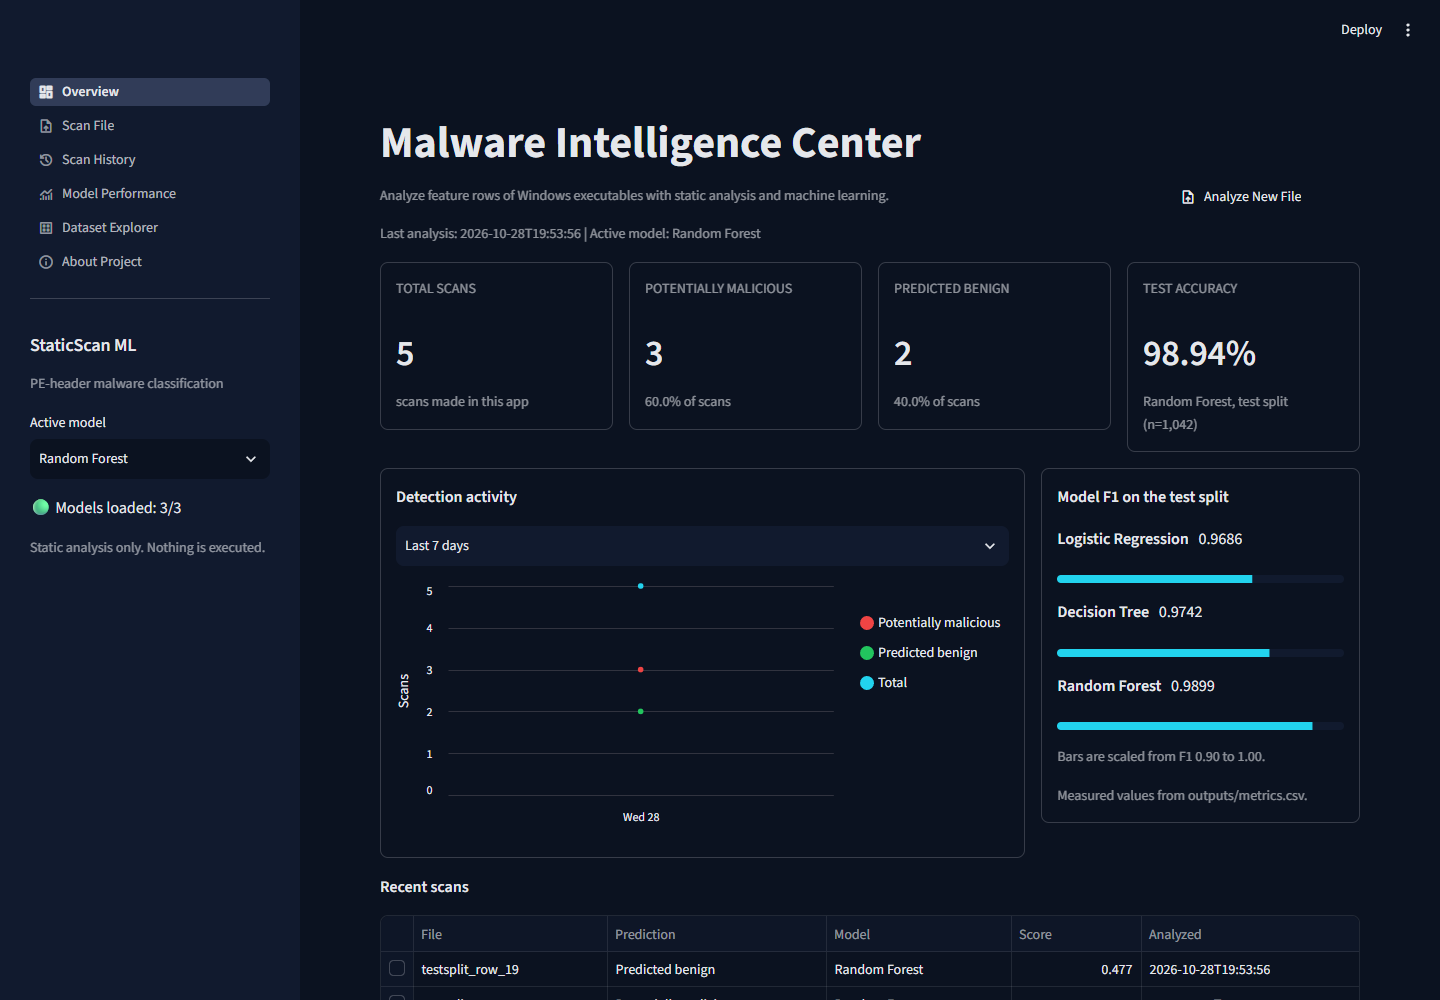
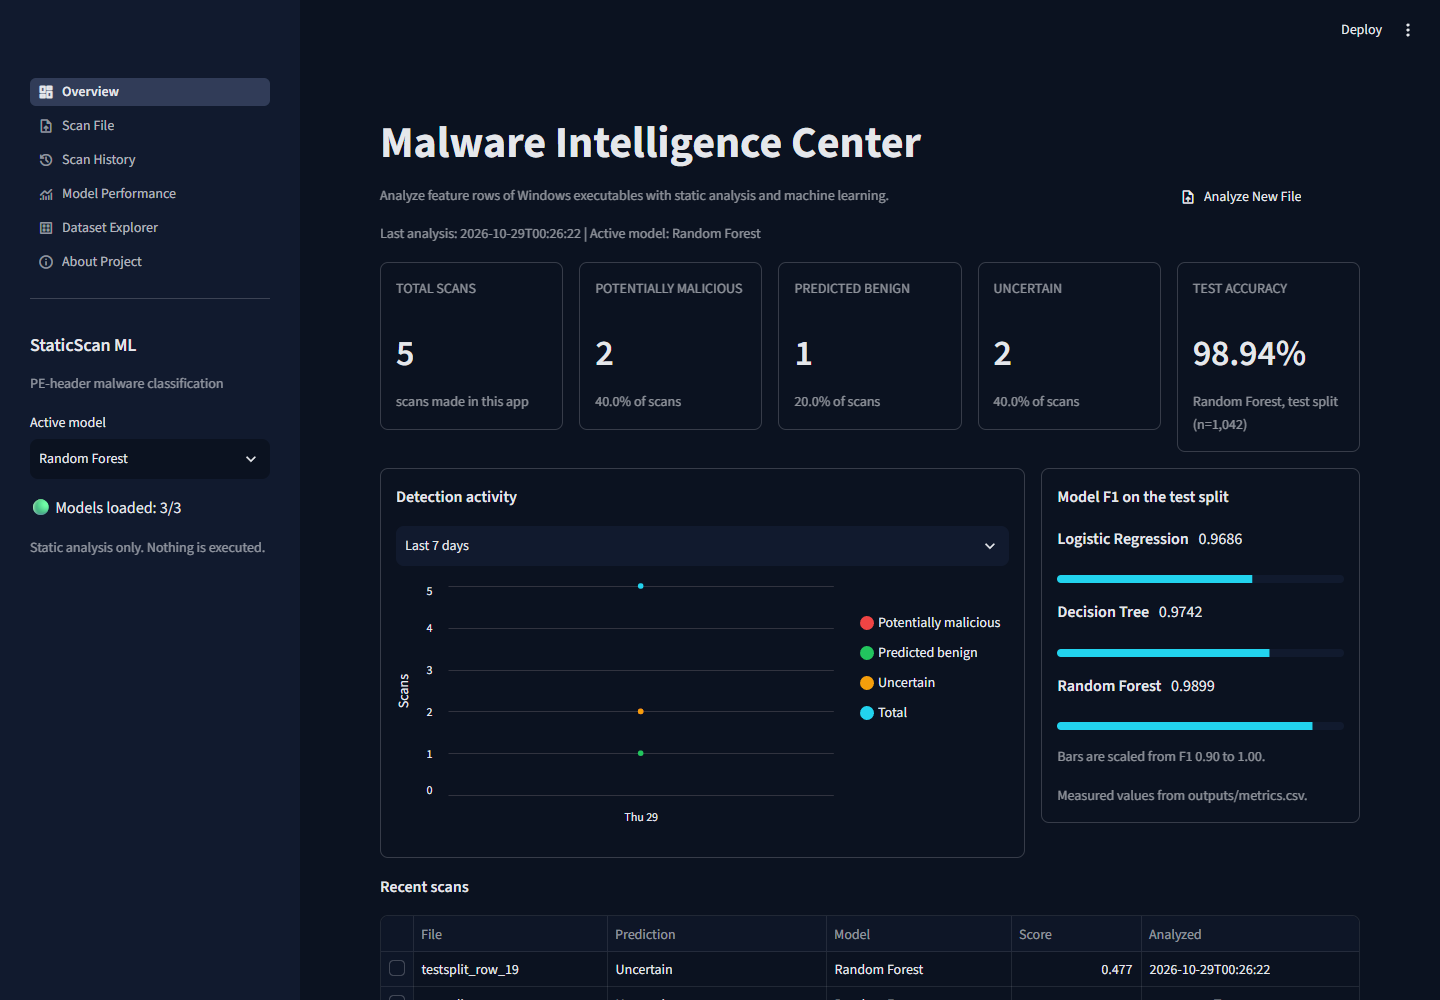
Add Uncertain verdict (borderline score or model disagreement), triage evaluation, docs

diff --git a/src/dash_common.py b/src/dash_common.py
@@ -21,13 +21,30 @@ DB = Path(os.environ.get("STATICSCAN_DB", ROOT / "data" / "scans.db"))  # overri
 CAT = "packer_type"
 MODELS = {"Logistic Regression": "logistic_regression", "Decision Tree": "decision_tree",
           "Random Forest": "random_forest"}
-LABEL_MAL, LABEL_BEN = "Potentially malicious", "Predicted benign"
-COLORS = {LABEL_MAL: "#ef4444", LABEL_BEN: "#22c55e", "Total": "#22d3ee"}
+LABEL_MAL, LABEL_BEN, LABEL_UNC = "Potentially malicious", "Predicted benign", "Uncertain"
+COLORS = {LABEL_MAL: "#ef4444", LABEL_BEN: "#22c55e", LABEL_UNC: "#f59e0b", "Total": "#22d3ee"}
+BORDER = (0.4, 0.6)  # a score this close to the 0.5 line is too close to call (fixed in advance, not tuned)
 DEMO_ROWS = [0, 3, 1, 29, 19]  # real test-split rows: clear malware, clear benign, packed, one FP, one FN
 
 
 def label_for(score):
     return LABEL_MAL if score >= 0.5 else LABEL_BEN
+
+
+def verdict(scores, primary):
+    """(label, reason) for one scan. scores: {model name: score}; primary: the model the user selected.
+    Uncertain when the selected model's score is within BORDER of 0.5, or when the three models do not agree on
+    which side of 0.5 the file is. The models and their scores are unchanged; this only decides what to show."""
+    s, why = scores[primary], []
+    if BORDER[0] <= s <= BORDER[1]:
+        why.append(f"{primary} score {s:.2f} is close to the 0.5 line")
+    mal = [m for m, v in scores.items() if v >= 0.5]
+    ben = [m for m, v in scores.items() if v < 0.5]
+    if mal and ben:
+        why.append(f"models disagree (malicious: {', '.join(mal)}; benign: {', '.join(ben)})")
+    if why:
+        return LABEL_UNC, "; ".join(why)
+    return label_for(s), ""
 
 
 @st.cache_resource
@@ -97,9 +114,18 @@ def _con():
     return con
 
 
+def _apply_verdict(df):
+    """Recompute label and reason from the stored scores, so every scan (older ones too) follows the current rule."""
+    out = [verdict(json.loads(r.scores_json), r.model) for r in df.itertuples()]
+    df = df.copy()
+    df["label"] = [o[0] for o in out]
+    df["reason"] = [o[1] for o in out]
+    return df
+
+
 def list_scans():
     with closing(_con()) as con:
-        return pd.read_sql("SELECT * FROM scans ORDER BY id DESC", con)
+        return _apply_verdict(pd.read_sql("SELECT * FROM scans ORDER BY id DESC", con))
 
 
 def clear_scans():
@@ -117,10 +143,11 @@ def record_scans(X, names, source, model, sha_list=None, extra_list=None):
             sha = sha_list[i] if sha_list else hashlib.sha256(json.dumps(feats, sort_keys=True).encode()).hexdigest()
             extra = json.dumps(extra_list[i]) if extra_list else None
             s = float(scores[model][i])
+            label, _ = verdict({n: float(v[i]) for n, v in scores.items()}, model)
             cur = con.execute(
                 "INSERT INTO scans(name,sha256,source,model,score,label,scores_json,features_json,created_at,extra_json)"
                 " VALUES(?,?,?,?,?,?,?,?,?,?)",
-                (name, sha, source, model, s, label_for(s),
+                (name, sha, source, model, s, label,
                  json.dumps({n: float(v[i]) for n, v in scores.items()}), json.dumps(feats),
                  datetime.now().isoformat(timespec="seconds"), extra))
             ids.append(cur.lastrowid)
@@ -147,7 +174,7 @@ def validate_features(raw, max_rows=50):
 def get_scan(scan_id):
     with closing(_con()) as con:
         r = pd.read_sql("SELECT * FROM scans WHERE id = ?", con, params=(int(scan_id),))
-    return r.iloc[0] if len(r) else None
+    return _apply_verdict(r).iloc[0] if len(r) else None
 
 
 def ood_notes(f, info):
@@ -191,7 +218,8 @@ def report_markdown(rec, ft):
     lines = [f"# Analysis report: {rec['name']}", "",
              f"- Feature-vector SHA-256: `{rec['sha256']}`", f"- Source: {rec['source']}",
              f"- Scanned: {rec['created_at']}", f"- Model: {rec['model']}",
-             f"- **Prediction: {rec['label']}** (model score {rec['score']:.3f})", "",
+             f"- **Prediction: {rec['label']}** (model score {rec['score']:.3f})",
+             *([f"- Why uncertain: {rec['reason']}"] if rec.get("reason") else []), "",
              "Machine-learning predictions are uncertain. This result does not confirm malicious behaviour.", "",
              "## All models", "", "| Model | Score | Prediction |", "|---|---|---|"]
     lines += [f"| {n} | {v:.3f} | {label_for(v)} |" for n, v in s.items()]
@@ -205,7 +233,6 @@ def report_markdown(rec, ft):
 def render_report(rec):
     s = json.loads(rec["scores_json"])
     feats_dict = json.loads(rec["features_json"])
-    mal = rec["label"] == LABEL_MAL
     extra = json.loads(rec["extra_json"]) if isinstance(rec.get("extra_json"), str) else None
     real = bool(extra)
     with st.container(border=True):
@@ -213,7 +240,10 @@ def render_report(rec):
         st.subheader(rec["name"])
         st.caption(f"{'File' if real else 'Feature-vector'} SHA-256: `{rec['sha256']}`  \nSource: {rec['source']}  |  "
                    f"Scanned: {rec['created_at']}")
-        st.markdown(f"#### {'🔴' if mal else '🟢'} :{'red' if mal else 'green'}[{rec['label'].upper()}]")
+        icon, colour = {LABEL_MAL: ("🔴", "red"), LABEL_BEN: ("🟢", "green")}.get(rec["label"], ("🟠", "orange"))
+        st.markdown(f"#### {icon} :{colour}[{rec['label'].upper()}]")
+        if rec.get("reason"):
+            st.caption(f"Why: {rec['reason']}. Treat this as unknown rather than a verdict.")
         st.markdown(f"**Model:** {rec['model']} &nbsp;|&nbsp; **Model score:** {rec['score']:.3f}")
         st.progress(float(rec["score"]))
         st.warning("Machine-learning predictions are uncertain. This result does not confirm malicious behaviour. "

diff --git a/tests/test_dashboard.py b/tests/test_dashboard.py
@@ -57,4 +57,40 @@ if os.path.exists(sample):
 assert not pe_extract.extract_safely(b"hello world")["ok"]
 assert not pe_extract.extract_safely(b"MZ" + bytes(200))["ok"]  # MZ but no valid PE headers
 assert not pe_extract.extract_safely(b"MZ" + bytes(pe_extract.MAX_BYTES))["ok"]  # over the size limit
+# "Uncertain" verdict: borderline score or disagreement between the models (rule fixed in advance, not tuned)
+RF, DT, LR = "Random Forest", "Decision Tree", "Logistic Regression"
+V = dc.verdict
+assert V({RF: .97, DT: 1, LR: 1}, RF)[0] == dc.LABEL_MAL and V({RF: .02, DT: 0, LR: 0}, RF)[0] == dc.LABEL_BEN
+lab, why = V({RF: .51, DT: 0, LR: .33}, RF)  # the Uninstall Notion.exe case: borderline AND disagreement
+assert lab == dc.LABEL_UNC and "close to the 0.5 line" in why and "models disagree" in why
+assert V({RF: .45, DT: .1, LR: .2}, RF)[0] == dc.LABEL_UNC  # all say benign, but too close to the line
+assert V({RF: .9, DT: 0, LR: .9}, RF)[0] == dc.LABEL_UNC   # confident score, but a model disagrees
+assert V({RF: .4, DT: 0, LR: 0}, RF)[0] == dc.LABEL_UNC and V({RF: .6, DT: 1, LR: 1}, RF)[0] == dc.LABEL_UNC  # edges inclusive
+assert V({RF: .39, DT: 0, LR: 0}, RF)[0] == dc.LABEL_BEN and V({RF: .61, DT: 1, LR: 1}, RF)[0] == dc.LABEL_MAL
+assert V({RF: .99, DT: 1, LR: .98}, DT)[0] == dc.LABEL_MAL  # the selected model decides which score is checked
+assert V({RF: .6, DT: 1, LR: 1}, DT)[0] == dc.LABEL_MAL     # RF near the line does not matter when DT is selected and all agree
+
+# demo rows with Random Forest selected: 0 and 1 malicious, 3 benign, 29 and 19 uncertain (models disagree)
+from collections import Counter
+demo = dc.list_scans().query("source == 'Test split (demo)'")
+assert Counter(demo["label"]) == {dc.LABEL_MAL: 2, dc.LABEL_BEN: 1, dc.LABEL_UNC: 2}, Counter(demo["label"])
+rows = dc.list_scans().set_index("name")
+assert rows.loc["testsplit_row_29", "label"] == dc.LABEL_UNC and "models disagree" in rows.loc["testsplit_row_29", "reason"]
+assert rows.loc["testsplit_row_19", "label"] == dc.LABEL_UNC and rows.loc["testsplit_row_3", "reason"] == ""
+
+# a scan stored before this rule existed (binary label) is shown with the current rule, without rewriting the database
+import json
+with dc._con() as con:
+    con.execute("INSERT INTO scans(name,sha256,source,model,score,label,scores_json,features_json,created_at) VALUES(?,?,?,?,?,?,?,?,?)",
+                ("legacy.exe", "x" * 64, "old", RF, .51, dc.LABEL_MAL, json.dumps({RF: .51, DT: 0, LR: .33}), "{}", "2020-01-01T00:00:00"))
+assert dc.list_scans().set_index("name").loc["legacy.exe", "label"] == dc.LABEL_UNC
+import sqlite3
+assert sqlite3.connect(dc.DB).execute("SELECT label FROM scans WHERE name='legacy.exe'").fetchone()[0] == dc.LABEL_MAL  # stored text untouched
+
+# the pages render with the new label (Overview cards, History filter)
+at.switch_page("views/overview.py").run()
+assert not at.exception, at.exception
+assert any(dc.LABEL_UNC.upper() in c.value.upper() for c in at.caption), [c.value for c in at.caption][:8]
+at.switch_page("views/history.py").run()
+assert not at.exception, at.exception
 print("dashboard smoke test passed")

diff --git a/src/evaluate_triage.py b/src/evaluate_triage.py
@@ -1,0 +1,48 @@
+"""What does the dashboard's "Uncertain" label do on the test split? (descriptive, nothing is tuned)
+
+The rule (dash_common.verdict) is fixed in advance: a scan is Uncertain when the selected model's score is within
+0.40-0.60, or when the three models disagree about which side of 0.5 the file is. It changes no score and no model,
+and the official test metrics in outputs/metrics.csv are untouched. This script only reports, per selected model,
+how many test files the rule sets aside and how many of that model's mistakes it catches.
+Run from the project root:  python src/evaluate_triage.py     (writes outputs/triage_check.md)"""
+import sys
+from pathlib import Path
+
+sys.path.insert(0, str(Path(__file__).resolve().parent))
+import dash_common as dc  # noqa: E402
+
+
+def main():
+    y, scores = dc.test_scores()  # saved models on the held-out test split (same predictions as outputs/metrics.csv)
+    names = list(scores)
+    rows = []
+    for primary in names:
+        err = unc_err = unc_ok = dec_err = dec = 0
+        for i in range(len(y)):
+            label, _ = dc.verdict({n: float(scores[n][i]) for n in names}, primary)
+            wrong = (scores[primary][i] >= 0.5) != bool(y[i])
+            if label == dc.LABEL_UNC:
+                unc_err += wrong
+                unc_ok += not wrong
+            else:
+                dec += 1
+                dec_err += wrong
+            err += wrong
+        unc = unc_err + unc_ok
+        rows.append((primary, len(y), err, unc, unc_err, dec, dec_err))
+    md = ["# Effect of the Uncertain label on the test split (1,042 files)", "",
+          "Descriptive only: the rule was fixed before measuring (score within 0.40-0.60, or the three models disagree) and "
+          "no model, score or official metric changes. 'Errors' are the selected model's mistakes at the usual 0.5 "
+          "threshold (false alarms plus misses).", "",
+          "| Selected model | Errors | Files marked Uncertain | Errors among those | Errors caught | Decided files | Errors among decided | Error rate when decided |",
+          "|---|---|---|---|---|---|---|---|"]
+    for p, n, err, unc, ue, dec, de in rows:
+        md.append(f"| {p} | {err} | {unc} ({unc / n:.1%}) | {ue} | {ue / max(err, 1):.0%} | {dec} | {de} | "
+                  f"{de / max(dec, 1):.2%} (was {err / n:.2%}) |")
+    text = "\n".join(md)
+    (Path(__file__).resolve().parent.parent / "outputs" / "triage_check.md").write_text(text, encoding="utf-8")
+    print(text)
+
+
+if __name__ == "__main__":
+    main()

diff --git a/src/views/overview.py b/src/views/overview.py
@@ -4,7 +4,7 @@ import altair as alt
 import pandas as pd
 import streamlit as st
 
-from dash_common import COLORS, DEMO_ROWS, MODELS, LABEL_BEN, LABEL_MAL, list_scans, metrics_table, record_scans, test_rows
+from dash_common import COLORS, DEMO_ROWS, MODELS, LABEL_BEN, LABEL_MAL, LABEL_UNC, list_scans, metrics_table, record_scans, test_rows
 
 model = st.session_state.get("active_model", "Random Forest")
 scans = list_scans()
@@ -18,12 +18,14 @@ st.caption(f"Last analysis: {last}  |  Active model: {model}")
 
 mal = int((scans["label"] == LABEL_MAL).sum())
 ben = int((scans["label"] == LABEL_BEN).sum())
+unc = int((scans["label"] == LABEL_UNC).sum())
 acc = metrics_table().loc[model.lower().replace(" ", "_"), "accuracy"]
-cols = st.columns(4)
+cols = st.columns(5)
 for col, (title, val, sub) in zip(cols, [
         ("Total scans", len(scans), "scans made in this app"),
         (LABEL_MAL, mal, f"{mal / len(scans):.1%} of scans" if len(scans) else "predictions, not confirmed malware"),
         (LABEL_BEN, ben, f"{ben / len(scans):.1%} of scans" if len(scans) else "no scans yet"),
+        (LABEL_UNC, unc, "models disagree or score near 0.5" if not len(scans) else f"{unc / len(scans):.1%} of scans"),
         ("Test accuracy", f"{acc:.2%}", f"{model}, test split (n=1,042)")]):
     with col.container(border=True):
         st.caption(title.upper())

diff --git a/src/views/history.py b/src/views/history.py
@@ -3,7 +3,7 @@ import json
 import pandas as pd
 import streamlit as st
 
-from dash_common import LABEL_BEN, LABEL_MAL, MODELS, clear_scans, get_scan, list_scans, render_report, top_features
+from dash_common import LABEL_BEN, LABEL_MAL, LABEL_UNC, MODELS, clear_scans, get_scan, list_scans, render_report, top_features
 
 PAGE = 25
 st.title("Scan History")
@@ -14,7 +14,7 @@ if scans.empty:
 
 c1, c2, c3, c4 = st.columns([2, 1, 1, 1])
 q = c1.text_input("Search file name or SHA-256", placeholder="e.g. testsplit_row_0 or 9f86d0...")
-pred = c2.selectbox("Prediction", ["All", LABEL_MAL, LABEL_BEN])
+pred = c2.selectbox("Prediction", ["All", LABEL_MAL, LABEL_BEN, LABEL_UNC])
 mod = c3.selectbox("Model", ["All", *MODELS])
 order = c4.selectbox("Sort", ["Newest first", "Oldest first"])
 

diff --git a/tests/take_screenshots.py b/tests/take_screenshots.py
@@ -61,6 +61,15 @@ try:
         shot(pg, "03_scan_real_file_report")
         pg.close()
 
+        pg = open_page("scan_file", "Scan File", 1500)  # a scan the dashboard calls Uncertain (models disagree)
+        pg.get_by_text("By index").click()
+        pg.get_by_label("Test row index").fill("29")
+        pg.get_by_label("Test row index").press("Enter")
+        pg.get_by_role("button", name="Analyze with").click()
+        pg.wait_for_selector("text=Treat this as unknown", timeout=60000)
+        shot(pg, "03b_uncertain_report")
+        pg.close()
+
         pg = open_page("history", "Scan History", 1000)
         shot(pg, "04_scan_history")
         pg.close()

diff --git a/src/views/about.py b/src/views/about.py
@@ -38,4 +38,7 @@ already installed on this PC, and **not** on real malware, so its detection abil
 - One split, no significance test. Packed, obfuscated or adversarial files were not tested.
 - Scores are raw model scores, not calibrated probabilities. "Potentially malicious" means predicted malicious,
   not confirmed malware.
+- **Uncertain** means the selected model's score is within 0.40-0.60 or the three models disagree. It is a triage label
+  on top of unchanged models: on the test split it sets aside 5.6% of files and catches 8 of the Random Forest's 11
+  mistakes, but most files it sets aside are classified correctly.
 """)

diff --git a/report/REPORT.md b/report/REPORT.md
@@ -208,6 +208,21 @@ To check whether the Random Forest could be improved, `src/improve_cv.py` tuned 
 
 None of the alternatives is clearly better. The ensemble differs from the current Random Forest by +0.0002 in F1 and -0.0022 in FPR, both well inside one standard deviation (0.0017 to 0.0042) of the fold-to-fold variation. The wider Random Forest grid scored higher in its own tuning folds (0.9922) than on the fresh folds (0.9913), which is the usual optimism of tuning on the same folds. Conclusion: on these 58 header features the models are already at the ceiling of what this dataset supports, so the Random Forest was kept and nothing was re-evaluated on the test split. Further gains would more likely come from better data (for example modern samples and import features) than from more model tuning.
 
+### 6.10 "Uncertain" verdict in the dashboard (triage layer, supplementary)
+Manual testing of the dashboard on a benign program turned up a false alarm. `Uninstall Notion.exe` (a 158 KB NSIS uninstaller, 5 sections including NSIS's `.ndata`, 7 imported DLLs, built in 2018) scores 0.510 on the Random Forest, just above the 0.5 line, while the Decision Tree gives 0.0 and Logistic Regression 0.33. Replacing one feature at a time with the typical benign value and watching the score fall (an approximate local explanation, not an exact one) shows what pushed it up: it is not a DLL (the DLL-flag shortcut of section 6.7, about +0.14), its whole-file entropy is 7.5 against a benign median of 6.2 because of the compressed installer payload (+0.09), its linker version is 6 against a benign median of 9 (+0.06), and the three stripped-binary header flags are set (+0.10 combined). To this model, an installer stub looks like old packed malware. The guessed features are not the cause: flipping each guessed or default feature moves the score only between 0.50 and 0.54, except `fileinfo`, which would give 0.59 if the guess were wrong.
+
+A single "Potentially malicious" for a score of 0.51 and for a score of 1.00 overstates the evidence, so the dashboard now has a third verdict, **Uncertain**. A scan is Uncertain when the selected model's score is within 0.40 to 0.60, or when the three models do not agree on which side of 0.5 the file is. The rule was fixed before it was measured and not tuned. It changes no model, score or metric: the official results in sections 6.1 to 6.3 are unchanged, and scans stored earlier are shown with the current rule without rewriting the database.
+
+What it does on the test split (`src/evaluate_triage.py`, `outputs/triage_check.md`; descriptive, reusing the saved test predictions):
+
+| Selected model | Errors | Files marked Uncertain | Errors among those | Errors caught | Decided files | Errors among decided | Error rate when decided |
+|---|---|---|---|---|---|---|---|
+| Logistic Regression | 34 | 59 (5.7%) | 31 | 91% | 983 | 3 | 0.31% (was 3.26%) |
+| Decision Tree | 28 | 54 (5.2%) | 25 | 89% | 988 | 3 | 0.30% (was 2.69%) |
+| Random Forest | 11 | 58 (5.6%) | 8 | 73% | 984 | 3 | 0.30% (was 1.06%) |
+
+With the Random Forest selected, about one file in eighteen is set aside, 8 of its 11 mistakes are among them, and the error rate on the remaining files falls from 1.06% to 0.30%. The cost is that most of the files set aside are in fact classified correctly (50 of the 58), so the label is a triage aid ("look at this one"), not a better classifier. In the demo rows, a benign file that the Random Forest flags (row 29) and a malware file it misses (row 19) both come out Uncertain, because the other models disagree.
+
 ## 7. Comparison and discussion
 
 - **Best model: Random Forest**, chosen by cross-validated F1 on the training split (0.9917 +/- 0.0042) before the test set was opened. On the test split it also had the best precision, recall, F1, FPR and ROC-AUC of the three models.

diff --git a/report/DEMO_GUIDE.md b/report/DEMO_GUIDE.md
@@ -12,7 +12,7 @@ All numbers below come from the files in `outputs/`.
 
 ## Demo flow (about 6 minutes)
 
-**1. Overview (30 s).** Say what the page is for. The stat cards show zero until you scan, which is deliberate: no invented numbers. Click **Scan the 5 demo files**. These are real rows from the held-out test split.
+**1. Overview (30 s).** Say what the page is for. The stat cards show zero until you scan, which is deliberate: no invented numbers. Click **Scan the 5 demo files**. These are real rows from the held-out test split. With Random Forest selected the cards then show 5 scans: 2 potentially malicious, 1 predicted benign and **2 Uncertain**.
 
 **2. Scan File, dataset sample (2 min).** Choose *Dataset sample*, then *By index*, and scan these rows:
 
@@ -20,8 +20,10 @@ All numbers below come from the files in `outputs/`.
 |---|---|---|
 | 0 | malware | All three models say about 1.0. A clear case. |
 | 3 | benign | All three say about 0. A clear case. |
-| 29 | benign | **A false alarm.** Random Forest scores 0.577 and flags it. This is why I report false-positive rate, not just accuracy. |
-| 19 | malware | **A miss.** Random Forest scores 0.477, just under the 0.5 line. |
+| 29 | benign | **Uncertain.** Random Forest scores 0.577, but the Decision Tree says 1.0 and Logistic Regression 0.0. On its own this would be a *false alarm*; the dashboard shows it as unknown instead. This is why I report false-positive rate, not just accuracy. |
+| 19 | malware | **Uncertain.** Random Forest scores 0.477, just under the 0.5 line, while the other two lean malicious. On its own this would be a *miss*. |
+
+Say what **Uncertain** means: the selected model's score is within 0.40-0.60, or the three models disagree. The rule was fixed in advance and changes no model or metric. On the test split it sets aside 58 of 1,042 files (5.6%), 8 of the Random Forest's 11 mistakes are among them, and the error rate on the other files is 0.30% (was 1.06%). Be upfront about the cost: 50 of those 58 were classified correctly, so it is a triage aid, not a better classifier.
 
 Open **Edit header values (what-if)** on row 0, set `E_file`, `E_data`, `E_text`, `CheckSum` and `filesize` to 0, and rescan. In my test the Random Forest score dropped from 1.0 to 0.877. Say the models react to the values directly. Do not claim the edited file is realistic.
 
@@ -36,6 +38,8 @@ Open **Edit header values (what-if)** on row 0, set `E_file`, `E_data`, `E_text`
 **5. Close with limitations (30 s).** Read them yourself before anyone asks: old near-balanced dataset, header features only, a possible file-type shortcut, and real-file scanning not tested on malware.
 
 ## Likely questions, with honest answers
+
+**Did you ever see a false alarm on a real program?** Yes. `Uninstall Notion.exe`, a 158 KB installer stub, scored 0.51 on the Random Forest while the other two models said benign. It is not a DLL, it has high entropy from the compressed payload, an old linker version and stripped header flags, so it looks like old packed malware to a model trained on older data. That case is why I added the **Uncertain** verdict: a borderline score or disagreeing models is shown as unknown instead of "malicious".
 
 **Why not just report accuracy?** A false alarm blocks legitimate software, so I report precision, recall, F1, FPR, the confusion matrix and ROC-AUC. Random Forest: FPR 0.0100.
 

diff --git a/README.md b/README.md
@@ -53,6 +53,8 @@ Use `python -m streamlit` (not the bare `streamlit` command) so it runs in the s
 
 Scans are stored in `data/scans.db` (not committed). Uploaded executables are parsed in a separate process with a timeout and deleted afterwards; only their features and SHA-256 are stored. Nothing is ever executed. Real-file scanning has only been checked for false alarms on programs installed on this PC (`python src/probe_benign_files.py`, results in `outputs/real_file_probe.txt`), not on malware. Dataset samples come from the test split, which was already scored once, so they illustrate the models and are not a new evaluation.
 
+A scan has three possible verdicts: **Potentially malicious**, **Predicted benign** and **Uncertain** (the selected model's score is within 0.40 to 0.60, or the three models disagree). Uncertain is a triage label on top of unchanged models; on the test split it sets aside 5.6% of files and catches 8 of the Random Forest's 11 mistakes (`outputs/triage_check.md`, report section 6.10).
+
 Smoke test: `python tests/test_dashboard.py`. Screenshots of every page are in `report/screenshots/` (regenerate with `python tests/take_screenshots.py`, needs `pip install playwright` and Microsoft Edge; it uses a throwaway scan database).
 
 ## Folder structure

diff --git a/outputs/triage_check.md b/outputs/triage_check.md
@@ -1,0 +1,9 @@
+# Effect of the Uncertain label on the test split (1,042 files)
+
+Descriptive only: the rule was fixed before measuring (score within 0.40-0.60, or the three models disagree) and no model, score or official metric changes. 'Errors' are the selected model's mistakes at the usual 0.5 threshold (false alarms plus misses).
+
+| Selected model | Errors | Files marked Uncertain | Errors among those | Errors caught | Decided files | Errors among decided | Error rate when decided |
+|---|---|---|---|---|---|---|---|
+| Logistic Regression | 34 | 59 (5.7%) | 31 | 91% | 983 | 3 | 0.31% (was 3.26%) |
+| Decision Tree | 28 | 54 (5.2%) | 25 | 89% | 988 | 3 | 0.30% (was 2.69%) |
+| Random Forest | 11 | 58 (5.6%) | 8 | 73% | 984 | 3 | 0.30% (was 1.06%) |
